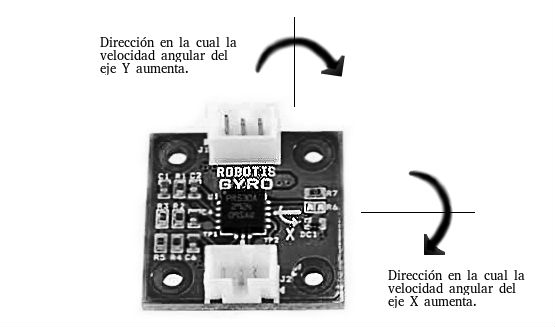
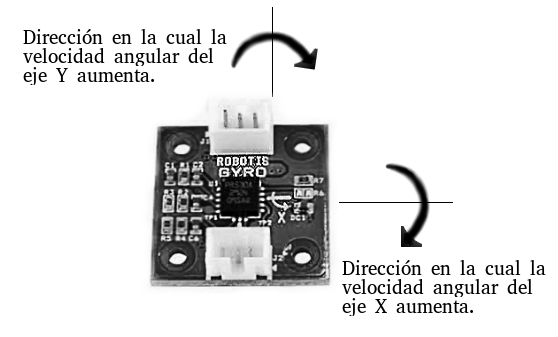
Avanzando en lo del giroscopio

Changed region(s): [[0.245, 0.3058, 0.9802, 0.948], [0.0306, 0.0306, 0.6432, 0.2752]]

diff --git a/Libro/libro/desarrollo/6_deteccionCaidas.tex b/Libro/libro/desarrollo/6_deteccionCaidas.tex
@@ -1,10 +1,36 @@
 \section{Detecci\'on de ca\'idas}
 
-Para poder detectar una posible caída del robot se cuenta con el giroscopio Gyro, incluido en el kit Bioloid de Robotis. Este giroscopio brinda información sobre la velocidad angular en dos ejes como se muestra en la figura ~\ref{fig:gyroDireccion} . El utilizado en este proyecto es el eje $x$ que indica si el robot experimenta una velocidad hacia adelante o hacia atras. Con esto se puede tener un indicio de si ha caído boca abajo o boca arriba.   
+Para poder detectar una posible caída del robot se cuenta con el giroscopio Gyro, incluido en el kit Bioloid de Robotis. Este giroscopio brinda información sobre la velocidad angular en los ejes $X$ y $Y$ como se muestra en la figura ~\ref{fig:gyroDireccion}.
 
 \begin{figure}[hbtp]
 \centering
-\includegraphics[scale=0.1]{imagenes/gyroDireccion.jpg}
+\includegraphics[scale=0.5]{imagenes/gyroDireccion.jpg}
 \caption{Dirección en la que la velocidad angular de los ejes $X$ y $Y$, del Gyro, aumenta.}
 \label{fig:gyroDireccion}
 \end{figure}
+
+La información del eje utilizado en este proyecto es el $X$, que indica si el robot experimenta una velocidad angular hacia adelante o hacia atrás. En la figura ~\ref{fig:gyroDireccion1} se muestra la direcci\'on en la que crece la velocidad angular con respecto al robot. El giroscopio puede detectar la velocidad desde $-300^{\circ}/s$ hasta $300^{\circ} /s$. Según la documentación, los valores que se leen del Gyro se dan en un rango de 45 a 445, en donde el valor 45 representa los $-300^{\circ}/s$ y el 455 representa los $300^{\circ} /s$. El valor 250 indica que no hay movimiento angular, es decir $0^{\circ}/s$. %Conociendo esta información, se decidió graficar los valores leídos por el giroscopio para observar su comportamiento mientras el robot ejecutaba una serie de movimientos.
+
+\begin{figure}[hbtp]
+\centering
+\includegraphics[scale=0.06]{imagenes/robotLateral.jpg}
+\caption{Dirección en la que la velocidad angular del eje $X$ crece con respecto al robot.}
+\label{fig:gyroDireccion1}
+\end{figure}
+
+%Se ha graficado los valores del giroscopio con el robot estático para comprobar que los valores leídos se corresponden con los de la documentación, es decir 250 cuando no hay movimiento. Cada punto representa un valor promediado de diez lecturas. La gráfica resultante es la que se puede apreciar en la figura ~\ref{fig:grafica1}. El primer valor promediado es 284 mientras que el último es 260. Por este motivo se decidió agregar un tiempo de 15 segundos del robot en reposo antes de comenzar la búsqueda de la pelota, de esta manera los valores del giroscopio se estabilizan. 
+
+Para detectar una posible caída ha sido necesario verificar constantemente la velocidad angular del eje X. Se ha establecido un límite inferior y uno superior para identificar dentro de qué valores puede estar la velocidad angular sin que se considere como una caída del robot, sino como efecto de su movimiento. En caso de estar fuera de los límites, se considera como una caída y el robot ejecuta la acción de movimiento para levantarse.  
+
+Se han observado los valores del giroscopio con el robot estático para verificar si los valores leídos se corresponden con los de la documentación, es decir 250 cuando no hay movimiento. Para obtener información más confiable se realiza un promedio entre diez lecturas para cada valor que se toma en cuenta. El resultado ha sido que los primeros valores no inician en 250 sino, en aproximadamente 284 y luego va disminuyendo. Por este motivo se decidió agregar un tiempo de 15 segundos del robot en reposo antes de comenzar la búsqueda de la pelota, de esta manera los valores del giroscopio se estabilizan. 
+
+%\begin{figure}[hbtp]
+%\centering
+%\includegraphics[scale=0.4]{imagenes/grafica1.jpg}
+%\caption{Gráfica de lecturas de velocidad angular en el eje X.}
+%\label{fig:grafica1}
+%\end{figure}
+
+Después de la pausa de 15 segundos, el primer valor promediado se toma como el valor que representa la velocidad angular cero, a este se le llamará valor central.   
+
+%Una de las primeras gráficas se muestra en la figura X. Cada valor gráficado representa una lectura promediada de diez veces, mientras el robot ejecuta el movimiento de caminar repetidas veces. Se puede observar que los primeros valores se encuentran entre 300 y 350, luego los valores disminuyen en conjunto.   
